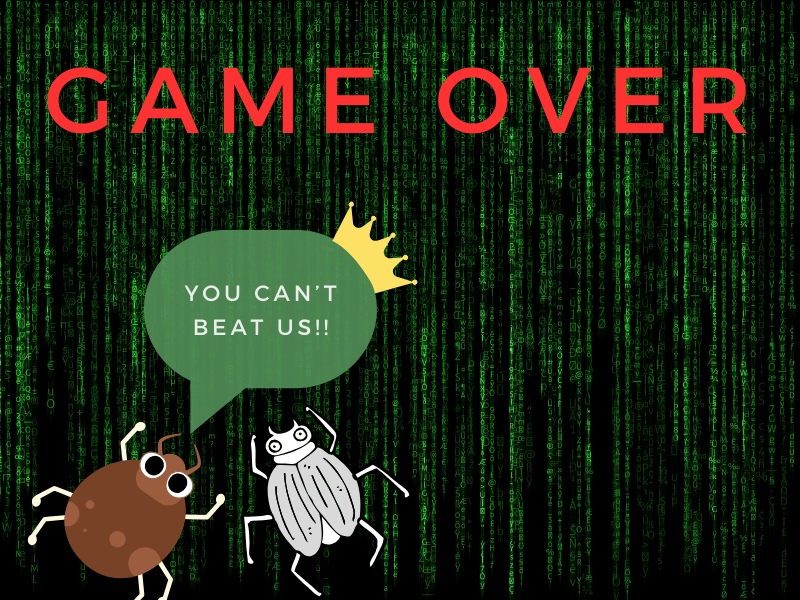
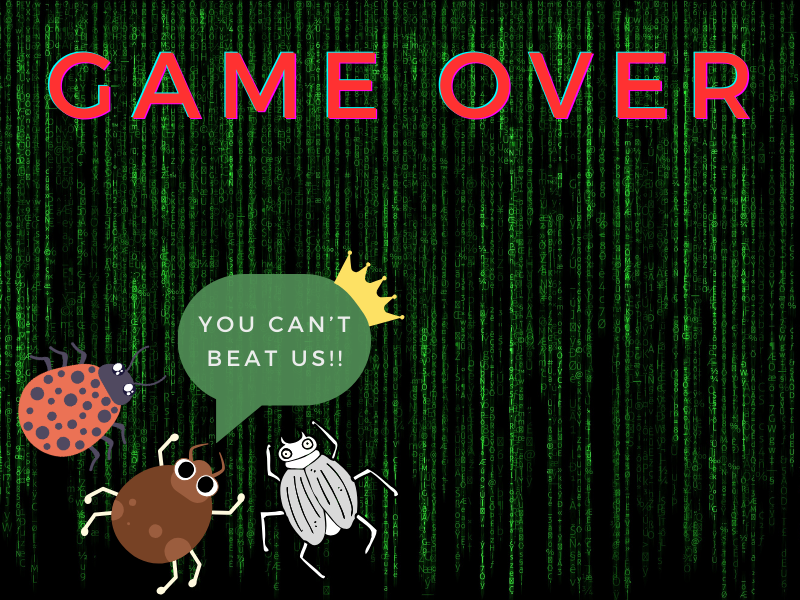
Added a menu scene and cleaned up the code

diff --git a/Game Engine/js/Play.js b/Game Engine/js/Play.js
@@ -24,34 +24,29 @@ class Play extends Phaser.Scene {
       // Set the initial velocity of the bugs to move towards the right
       velocityX: 100
     });
-    // Create a second group of bugs with some basic physics configuration
+    // Create a second group of bugs
     this.bugs2 = this.physics.add.group({
       // Image key 
       key: 'bug2',
       // Set the initial velocity of the bugs to move towards the right
-      velocityX: 100
+      velocityX: 120
     });
-    // Create a third group of Bugs !! 
+    // Create a third group of Bugs
     this.bugs3 = this.physics.add.group({
       // Image key 
       key: 'bug3',
       // Set the initial velocity of the bugs to move towards the right
-      velocityX: 200
+      velocityX: 160
     });
 
    // Initialize score
     this.score = 0;
     this.scoreText = this.add.text(16, 16, 'Score: 0', { fontSize: '32px', fill: '#FFF' }); 
     
-    // Create a timer event to spawn bugs wiht different delay 
-    this.timerEvent = this.time.addEvent({ delay: 700, callback: this.spawnBug, callbackScope: this, loop: true });
-
-    // Create a timer event to start spawning bug2 after the delay
-    this.time.delayedCall(70000, this.startSpawningBug2, [], this);
-    this.time.delayedCall(1000, this.startSpawningBug3, [], this);
-
-    // Create an array of correct keywords
-    this.correctKeywords = ['if', 'else', 'byte'];
+    // Create a timer event to spawn bugs with different delay 
+    this.startSpawningBug(); // Right away
+    this.time.delayedCall(10000, this.startSpawningBug2, [], this); // After 10 secs
+    this.time.delayedCall(15000, this.startSpawningBug3, [], this); // After 15 secs
 
     // Initialize the typed input
     this.typedInput = '';
@@ -59,7 +54,26 @@ class Play extends Phaser.Scene {
     // Listen for keyboard input
     this.input.keyboard.on('keydown', this.onKeyPressed, this);
   }
-  
+
+  // Function to start spawning bug
+  startSpawningBug(){
+    this.startSpawning(1000,this.spawnBug);
+  } 
+  // Function to start spawning bug2
+  startSpawningBug2() {   
+    this.startSpawning(2000, this.spawnBug2)
+  }
+
+  // Function to start spawning bug3
+  startSpawningBug3() {   
+    this.startSpawning(3000, this.spawnBug3);
+  }
+
+  // Function to create time delay 
+  startSpawning(delay, callback){
+    this.timerEvent = this.time.addEvent({delay: delay, callback: callback, callbackScope: this, loop: true})
+  }
+
   // Function to spawn a bug
   spawnBug() {
   // Calculate the Y position randomly within the game height
@@ -69,23 +83,25 @@ class Play extends Phaser.Scene {
   this.bugs.create(0, y, 'bug');
   }
 
+  // Function to spawn a bug2
   spawnBug2() {
     // Calculate the Y position randomly within the game height
     let y = Phaser.Math.Between(50, this.game.config.height - 50); 
     console.log('Bug2 spawned at Y:', y); 
 
-      let bug2 = this.bugs2.create(0, y, 'bug2');
-      this.tweens.add({
-          targets: bug2,
-          y: '+=100', // move down by 100
-          ease: 'Power1', 
-          duration: 1000,
-          yoyo: true, // go back to original position
-          repeat: -1 // repeat forever
-      });
-    
+    // Wavy Movement
+    let bug2 = this.bugs2.create(0, y, 'bug2');
+    this.tweens.add({
+        targets: bug2,
+        y: y + 100,  
+        duration: 1000,
+        repeat: -1, // Repeat forever
+        yoyo: true, // Move back and forth
+        ease: 'Power1'
+    });   
 }
 
+  // Function to spawn a bug3
   spawnBug3() {
     // Calculate the Y position randomly within the game height
     let y = Phaser.Math.Between(50, this.game.config.height - 50);
@@ -94,31 +110,20 @@ class Play extends Phaser.Scene {
     // Create bug3 at the far left edge of the screen with the random Y position
     let bug3 = this.bugs3.create(0, y, 'bug3');
 
-    // Custom wavy movement using sine wave
+    // Wavy Movement 
     this.tweens.add({
         targets: bug3,
-        y: y + 50, // Adjust the amplitude of the wave
-        duration: 1000, // Duration of one wave cycle
+        y: y + 50, 
+        duration: 1000, 
         repeat: -1, // Repeat indefinitely
         yoyo: true, // Move back and forth
         ease: 'Sine.easeInOut' // Use sine wave easing
     });
   }
 
-  // Function to start spawning bug2
-  startSpawningBug2() {   
-    // Create a timer event for bug2 with the desired spawn interval
-    this.bug2TimerEvent = this.time.addEvent({ delay: 2000, callback: this.spawnBug2, callbackScope: this, loop: true });
-  }
-
-  // Function to start spawning bug2
-  startSpawningBug3() {   
-    // Create a timer event for bug2 with the desired spawn interval
-    this.bug3TimerEvent = this.time.addEvent({ delay: 3000, callback: this.spawnBug3, callbackScope: this, loop: true });
-  }
-
   // Called when a key is pressed
   onKeyPressed(event) {
+
     // Get the typed key
     const typedKey = event.key.toLowerCase();
 
@@ -126,65 +131,50 @@ class Play extends Phaser.Scene {
     this.typedInput += typedKey;
     console.log(this.typedInput)
 
-    // Check if the typed input ends with the correct keyword "byte"
-    if (this.typedInput.endsWith('byte')) {
-      // Destroy the first bug in the bugs3 group and update the score
-      let bug = this.bugs3.getFirstAlive();
-      if (bug) {
-        bug.destroy();
-        this.score += 15; // Adjust the score as needed
-        this.scoreText.setText(`Score: ${this.score}`);
-      }
-      // Clear the typed input
-      this.typedInput = '';
-    } else if (this.typedInput.endsWith('if')) {
+    if (this.typedInput.endsWith('if')) {
       // Destroy the first bug in the bugs group and update the score
       let bug = this.bugs.getFirstAlive();
-      if (bug) {
-        bug.destroy();
-        this.score += 5; // Adjust the score as needed
-        this.scoreText.setText(`Score: ${this.score}`);
-      }
-      // Clear the typed input
-      this.typedInput = '';
+      this.destroyBug(bug, 5);
     } else if (this.typedInput.endsWith('else')) {
       // Destroy the first bug in the bugs2 group and update the score
       let bug = this.bugs2.getFirstAlive();
-      if (bug) {
-        bug.destroy();
-        this.score += 10; // Adjust the score as needed
-        this.scoreText.setText(`Score: ${this.score}`);
-      }
-      // Clear the typed input
-      this.typedInput = '';
+      this.destroyBug(bug, 10);
+    } else if (this.typedInput.endsWith('byte')) {
+      // Destroy the first bug in the bugs3 group and update the score
+      let bug = this.bugs3.getFirstAlive();
+      this.destroyBug(bug, 15);
     }
   }
 
+  // Function to destroy a bug and update the score
+  destroyBug(bug, pointsGained, ){
+    if (bug) {
+      bug.destroy();
+      this.score += pointsGained; 
+      this.scoreText.setText(`Score: ${this.score}`);
+    }
+    // Clear the typed input
+    this.typedInput = '';
+  }
 
   // Called every frame
   update() {
     // Continuously check if bugs have reached the right side of the screen
-    this.bugs.children.iterate(bug => {
+    this.checkBug(this.bugs);
+    this.checkBug(this.bugs2);
+    this.checkBug(this.bugs3);
+  }
+
+  // Function to check if the bugs have reached the right side of the screen 
+  checkBug(bugs){
+    bugs.children.iterate(bug => {
       if (bug.x >= this.game.config.width) {
-        // Bug escaped! Switch to the "lose" scene
-        this.scene.start('lose');
-      }
-    });
-
-    this.bugs2.children.iterate(bug2 => {
-      if (bug2.x >= this.game.config.width) {
-        // Bug escaped! Switch to the "lose" scene
-        this.scene.start('lose');
-      }
-    });
-
-    this.bugs3.children.iterate(bug3 => {
-      if (bug3.x >= this.game.config.width) {
         // Bug escaped! Switch to the "lose" scene
         this.scene.start('lose');
       }
     });
   }
 }
+
 
 

diff --git a/Game Engine/js/Menu.js b/Game Engine/js/Menu.js
@@ -3,24 +3,24 @@ A  scene to display the introduction image which explains the game
 to the player before switching to the "play" scene.
 */
 
-class Intro extends Phaser.Scene {
+class Menu extends Phaser.Scene {
 
   // Just sets the scene's key name
   constructor() {
     super({
-      key: `intro`
+      key: `menu`
     });
   }
 
   create() {
 
     // Add intro background image
-    this.add.image(0, 0, 'intro').setOrigin(0);    
+    this.add.image(0, 0, 'menu').setOrigin(0);    
 
     // Listen for keyboard input
     this.input.keyboard.once('keydown-ENTER', () => {
       // Switch to the play scene
-      this.scene.start(`menu`);
+      this.scene.start(`play`);
     });
 
   }

diff --git a/Game Engine/js/Boot.js b/Game Engine/js/Boot.js
@@ -16,9 +16,11 @@ class Boot extends Phaser.Scene {
     // Load bug images 
     this.load.image('bug', 'assets/images/bug.png');
     this.load.image('bug2', 'assets/images/bug2.png');
-    this.load.image('bug3', 'assets/images/bug31.png');
+    this.load.image('bug3', 'assets/images/bug3.png');
     // Load Intro image 
     this.load.image('intro', 'assets/images/intro.png' );
+    // Load Intro image 
+    this.load.image('menu', 'assets/images/menu.png' );
     // Load Play background image
     this.load.image('background', 'assets/images/background1.png');  
     // Load Gameover Image

diff --git a/Game Engine/index.html b/Game Engine/index.html
@@ -19,6 +19,7 @@
     <!-- My script(s) -->
     <script src="js/Boot.js"></script>
     <script src="js/Intro.js"></script>
+    <script src="js/Menu.js"></script>
     <script src="js/Play.js"></script>
     <script src="js/Lose.js"></script>
     <script src="js/Main.js"></script>

diff --git a/Game Engine/js/Main.js b/Game Engine/js/Main.js
@@ -19,7 +19,7 @@ let config = {
       debug: false
     }
   },
-  scene: [Boot, Intro, Play, Lose]
+  scene: [Boot, Intro, Menu, Play, Lose]
 };
 
 let game = new Phaser.Game(config);
